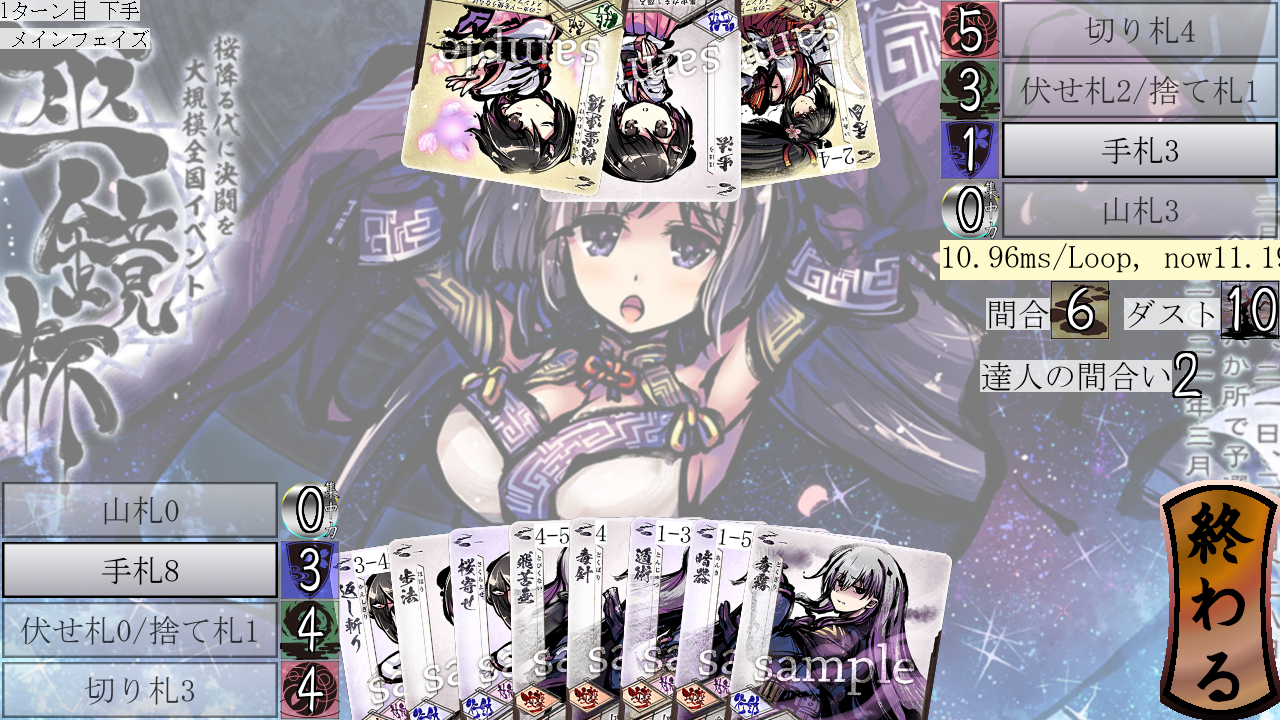
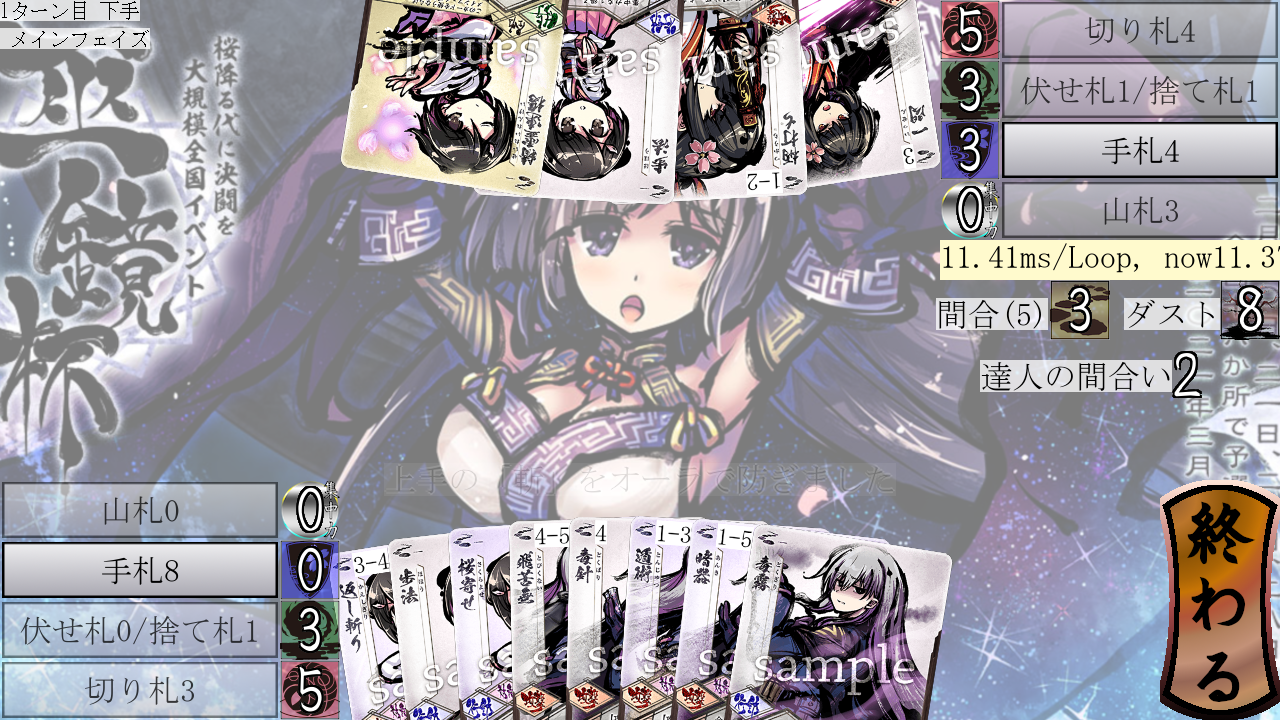
J740:前進と離脱の間合条件を実際の桜花結晶数ではなくBParams経由で判断

diff --git a/mod/kd/kihondousa.py b/mod/kd/kihondousa.py
@@ -24,13 +24,13 @@ class KihonDousaCard(Card):
 
 #                 20                  40                  60                 79
 zensin_booldi: BoolDI = lambda delivery, hoyuusya:\
-    delivery.ouka_count(hoyuusya=hoyuusya, is_mine=False, utuwa_code=UC_TATUZIN) <\
-    delivery.ouka_count(hoyuusya=hoyuusya, is_mine=False, utuwa_code=UC_MAAI) and\
+    delivery.b_params.tatuzin_no_maai < delivery.b_params.maai and\
     applied_scalar(0, SC_TONZYUTU, delivery, hoyuusya) == 0
 zensin_card: Card = KihonDousaCard(img=LOAD_SURFACE("zensin"), name="前進",
     from_mine=False, from_code=UC_MAAI, to_mine=True, to_code=UC_AURA,
     add_cond=zensin_booldi)
-ridatu_booldi: BoolDI = lambda delivery, hoyuusya: delivery.ouka_count(hoyuusya=hoyuusya, is_mine=False, utuwa_code=UC_TATUZIN) >= delivery.ouka_count(hoyuusya=hoyuusya, is_mine=False, utuwa_code=UC_MAAI)
+ridatu_booldi: BoolDI = lambda delivery, hoyuusya:\
+    delivery.b_params.tatuzin_no_maai >= delivery.b_params.maai
 ridatu_card: Card = KihonDousaCard(img=LOAD_SURFACE("ridatu"), name="離脱",
     from_mine=False, from_code=UC_DUST, to_mine=False, to_code=UC_MAAI,
     add_cond=ridatu_booldi)
